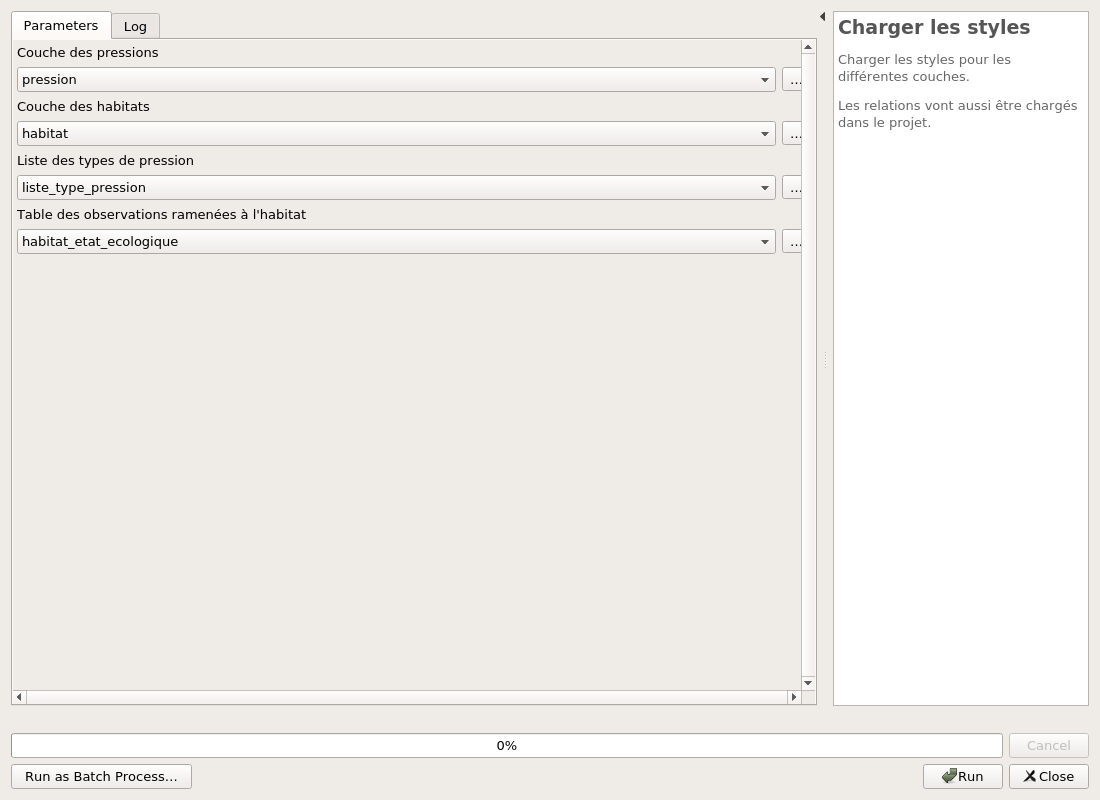
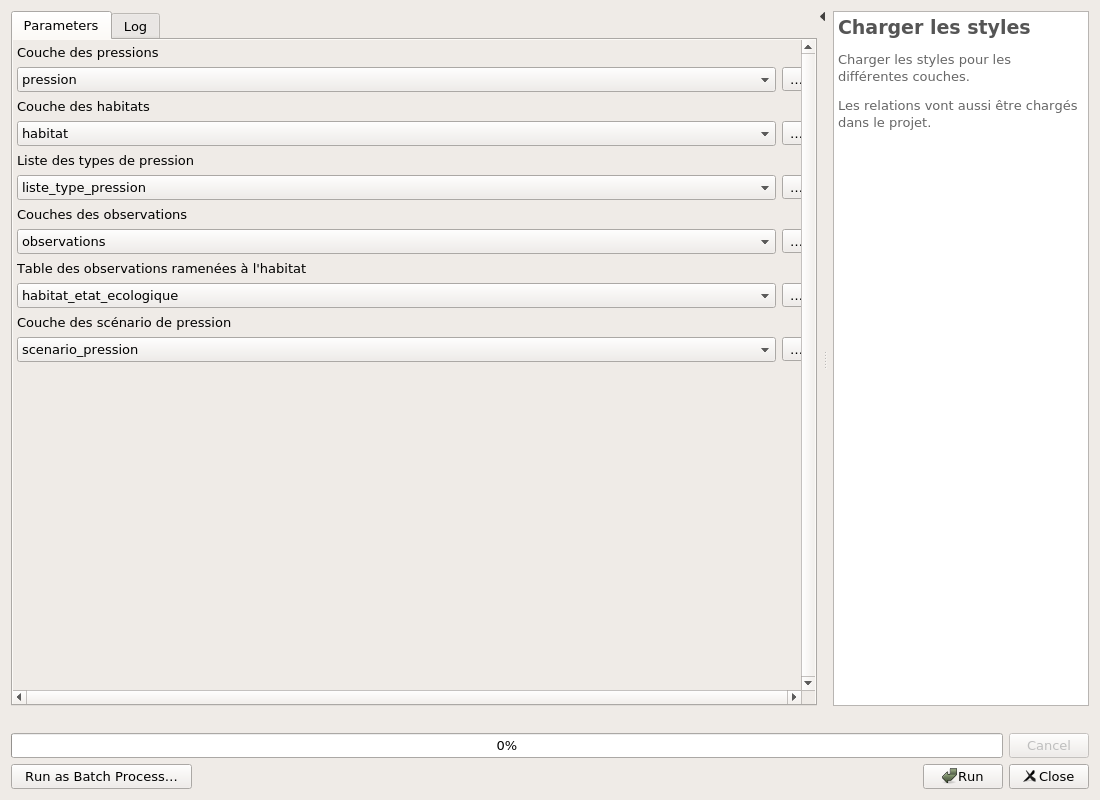
Docs - Update from Processing

Changed region(s): [[0.0, 0.25, 0.2782, 0.4688]]

diff --git a/docs/processing/README.md b/docs/processing/README.md
@@ -50,7 +50,9 @@ Les relations vont aussi être chargés dans le projet.
 PRESSURE_LAYER|Couche des pressions|VectorLayer||✓||Default: pression <br> Type: TypeVectorPolygon <br>|
 HABITAT_LAYER|Couche des habitats|VectorLayer||✓||Default: habitat <br> Type: TypeVectorPolygon <br>|
 PRESSURE_LIST_LAYER|Liste des types de pression|VectorLayer||✓||Default: liste_type_pression <br> Type: TypeVectorPolygon <br>|
+OBSERVATIONS_LAYER|Couches des observations|VectorLayer||✓||Default: observations <br> Type: TypeVectorPoint <br>|
 HABITAT_ETAT_ECOLOGIQUE_LAYER|Table des observations ramenées à l'habitat|VectorLayer||✓||Default: habitat_etat_ecologique <br> Type: TypeVectorPolygon <br>|
+SCENARIO_PRESSION|Couche des scénario de pression|VectorLayer||✓||Default: scenario_pression <br> Type: TypeVectorPolygon <br>|
 
 
 #### Outputs
